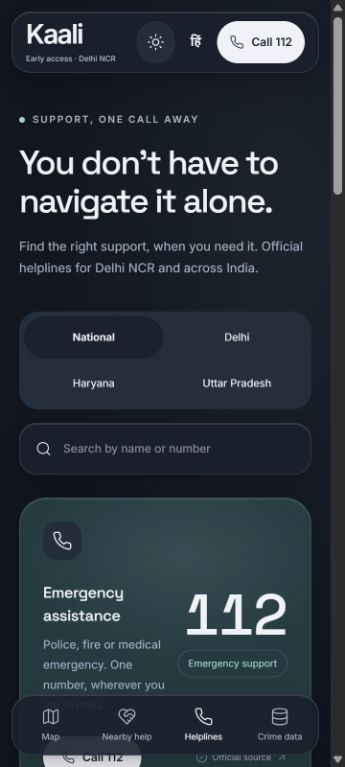
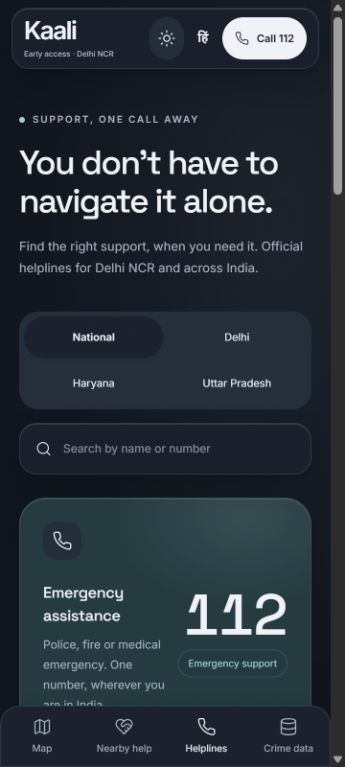
Simplify mobile map controls and panel layout

diff --git a/src/pages/HistoricalMap.tsx b/src/pages/HistoricalMap.tsx
@@ -25,15 +25,16 @@ export default function HistoricalMap({theme,region}:{theme:string;region:Region
  useEffect(()=>{const timer=setInterval(()=>setClock(new Date()),60000);return()=>clearInterval(timer)},[]);
  const hour=selectedHour??localHour(clock,region.timezone),timeBand=Math.floor(hour/4);
  const [openPanel,setOpenPanel]=useState<'districts'|'details'|'legend'|'filters'|null>(null);
- const toggle=(panel:'districts'|'details'|'legend'|'filters')=>setOpenPanel(current=>current===panel?null:panel);
- const selectDistrict=(id:string)=>{setSelectedId(id);setOpenPanel('details')};
+ const [awarenessOpen,setAwarenessOpen]=useState(false);
+ const toggle=(panel:'districts'|'details'|'legend'|'filters')=>{setAwarenessOpen(false);setOpenPanel(current=>current===panel?null:panel)};
+ const selectDistrict=(id:string)=>{setAwarenessOpen(false);setSelectedId(id);setOpenPanel('details')};
  const [data,setData]=useState<NcrDistricts|null>(null),[error,setError]=useState(''),[query,setQuery]=useState(''),[selectedId,setSelectedId]=useState<string|null>(null);
  useEffect(()=>{const controller=new AbortController();fetch('/data/ncr-historical-districts.json',{signal:controller.signal}).then(r=>{if(!r.ok)throw Error('Historical records could not load');return r.json();}).then(raw=>setData(loadNcrDistricts(raw))).catch(e=>{if(!controller.signal.aborted)setError(String(e.message));});return()=>controller.abort();},[]);
  useEffect(()=>{const controller=new AbortController();fetch(region.helpFile,{signal:controller.signal}).then(r=>{if(!r.ok)throw Error();return r.json()}).then(raw=>setHelp(raw.features??[])).catch(()=>setHelp([]));return()=>controller.abort()},[region.helpFile]);
  const selected=data?.records.find(r=>r.id===selectedId);
  const filtered=useMemo(()=>data?.records.filter(r=>`${r.name} ${r.cityId==='gautam-buddh-nagar'?'Noida Greater Noida':''}`.toLowerCase().includes(query.trim().toLowerCase()))??[],[data,query]);
  const highlights=selected?.categories.filter(c=>c.highlight)??[],maximum=Math.max(1,...highlights.map(c=>c.count??0));
- return <main id="main" onKeyDown={e=>{if(e.key==='Escape'&&openPanel){document.getElementById(`${openPanel}-toggle`)?.focus();setOpenPanel(null);e.stopPropagation();}}} className={`historical-layout ${selected?'with-district':''} ${openPanel?`panel-${openPanel}-open`:''}`}>
+ return <main id="main" onKeyDown={e=>{if(e.key==='Escape'&&awarenessOpen){setAwarenessOpen(false);e.stopPropagation();}else if(e.key==='Escape'&&openPanel){document.getElementById(`${openPanel}-toggle`)?.focus();setOpenPanel(null);e.stopPropagation();}}} className={`historical-layout ${selected?'with-district':''} ${openPanel?`panel-${openPanel}-open`:''}`}>
  <div className="historical-basemap" aria-label="Interactive Delhi NCR historical recorded-case map">{data?<Suspense fallback={<Skeleton/>}><Canvas districts={filtered} selectedId={selectedId} theme={theme} onSelect={selectDistrict} openPanel={openPanel} bounds={region.bounds} center={region.center} help={help} layout={layout} timeBand={timeBand} hour={hour} visibleKinds={visibleKinds} context={context} userPosition={user} focusRequest={focusRequest} onLocate={()=>setLocateRequest(n=>n+1)} ml={ml}/></Suspense>:<div className="historical-loading"><Skeleton/><p role="status">{error||'Loading source-backed district records…'}</p>{error&&<Button onClick={()=>window.location.reload()}>Retry</Button>}</div>}</div>
  <Glass className={`historical-sidebar historical-capsule ${openPanel==='districts'?'is-open':''}`} aria-label="Delhi NCR district controls"><button id="districts-toggle" className="historical-capsule-trigger" onClick={()=>toggle('districts')} aria-expanded={openPanel==='districts'} aria-controls="district-controls-body"><SlidersHorizontal size={18}/><span><strong>{formatCases(data?.ncrRecordedSubtotal)} recorded cases</strong><small>Delhi NCR · Historical records · Districts</small></span><ChevronDown size={17}/></button><div id="district-controls-body" className="historical-capsule-body" hidden={openPanel!=='districts'}><p className="eyebrow">DELHI NCR · RECORDED CASES</p><h1>The district<br/>picture.</h1><p className="historical-intro">Crimes against women, as recorded in <strong>the historical reporting period</strong>. Historical volume, with the source in view.</p>
  <label className="historical-search"><Search size={17}/><span className="sr-only">Search reporting units</span><input value={query} onChange={e=>setQuery(e.target.value)} placeholder="Find a police district" type="search"/></label>
@@ -51,7 +52,7 @@ export default function HistoricalMap({theme,region}:{theme:string;region:Region
  <h3>Missing data & source checks</h3><p className="historical-small">{selected.missingColumns.length?`Missing source columns: ${selected.missingColumns.join(', ')}. Blanks remain missing.`:'No blank category cells in this district’s source worksheet row. This does not establish complete crime reporting.'}</p>{selected.categoryMismatches.map(c=><p key={c.column} className="historical-data-note">{historicalCopy(c.label)}: source parent {formatCases(c.reported_parent)}, children {formatCases(c.child_sum)}. Retained as published; no repair or redistribution.</p>)}
  <a href={data.sourceUrl} target="_blank" rel="noreferrer">NCRB source catalogue <ArrowUpRight size={14}/></a><a href={data.reportUrl} target="_blank" rel="noreferrer">Original report · state-total reconciliation <ArrowUpRight size={14}/></a><a href={selected.reference.source} target="_blank" rel="noreferrer">OSM reference place <ArrowUpRight size={14}/></a><a href={selected.reference.assignmentSource} target="_blank" rel="noreferrer">Official district / locality directory <ArrowUpRight size={14}/></a><p className="historical-small">{historicalCopy(data.provenanceNote)}</p>
  <div className="historical-help"><a href="tel:112"><Phone size={16}/> Emergency · call 112</a><Link to="/helplines">Official helplines & government links <ArrowUpRight size={14}/></Link><Link to="/evidence">Crime data & sources <ArrowUpRight size={14}/></Link><Button variant="ghost" size="small" onClick={()=>{setSelectedId(null);setOpenPanel(null);document.getElementById('districts-toggle')?.focus();}}>Clear district selection</Button></div></div></Glass>}
- <LocalAwareness locateRequest={locateRequest} center={region.center} timezone={region.timezone} ml={ml} context={context} help={help} user={user} onPosition={onPosition} onLocate={()=>setFocusRequest(n=>n+1)} regional={data?{year:data.year,count:data.ncrRecordedSubtotal}:null}/>
+ <LocalAwareness mobileExpanded={awarenessOpen} onMobileExpandedChange={open=>{setAwarenessOpen(open);if(open)setOpenPanel(null)}} locateRequest={locateRequest} center={region.center} timezone={region.timezone} ml={ml} context={context} help={help} user={user} onPosition={onPosition} onLocate={()=>setFocusRequest(n=>n+1)} regional={data?{year:data.year,count:data.ncrRecordedSubtotal}:null}/>
  <Glass className={`historical-legend historical-capsule ${openPanel==='legend'?'is-open':''}`} aria-label="Historical recorded volume legend"><button id="legend-toggle" className="historical-capsule-trigger" onClick={()=>toggle('legend')} aria-expanded={openPanel==='legend'} aria-controls="historical-legend-body"><Layers size={18}/><span><strong>Map legend</strong><small>Recorded cases · Historical records</small></span><ChevronDown size={17}/></button><div id="historical-legend-body" className="historical-capsule-body" hidden={openPanel!=='legend'}><h2>Recorded cases · Historical records</h2><div><span><i className="historical-dot band-pale"/>Under 500</span><span><i className="historical-dot band-medium"/>500–999</span><span><i className="historical-dot band-strong"/>1,000+</span></div><p>Larger circle = more recorded cases. Size: 22 + √(cases ÷ 1,500) × 30 px.</p><p>Polygon risk levels: Low (under 25), Medium (25–49), High (50–74), Very high (75–100). Pale rose to crimson; Model estimates or time-only advisory rules, not a guarantee. Levels combine annual-volume predictions with assumed spatial/time/activity adjustments. For missing model inputs: 20:00–06:00 High, 06:00–10:00 Medium, 10:00–17:00 Low, 17:00–20:00 Medium. At 22:00–06:00, model Low becomes Medium and Medium becomes High; outer/lower-density references have a High minimum. Outer means over 20 km from the configured region centre; lower density means below the median of available supplied density values. These are assumed rules. Reference cells are not verified ward boundaries or current danger classifications.</p><small>Historical reporting, not current safety. Display bands only · not NCRB danger classifications. Approximate reference points; no danger radii.</small><Link className="historical-legend-method" to="/evidence">Crime data & sources <ArrowUpRight size={13}/></Link></div></Glass>
  <Glass className={`historical-filters historical-capsule ${openPanel==='filters'?'is-open':''}`} aria-label="Map filters"><button id="filters-toggle" className="historical-capsule-trigger" onClick={()=>toggle('filters')} aria-expanded={openPanel==='filters'} aria-controls="map-filters-body"><SlidersHorizontal size={18}/><span><strong>Help nearby</strong><small>{visibleKinds.length?'Help nearby & layout':'Help layers hidden'}</small></span><ChevronDown size={17}/></button><div id="map-filters-body" className="historical-capsule-body" hidden={openPanel!=='filters'}><label className="historical-filter-field">Map layout<select value={layout} onChange={e=>setLayout(e.target.value as BasemapLayout)}>{mapLayouts.map(l=><option key={l.id} value={l.id}>{l.label}</option>)}</select></label><fieldset><legend>Help nearby · mapped OSM places</legend>{(['police','hospital','metro'] as const).map(kind=><label className="historical-filter-check" key={kind}><input type="checkbox" checked={visibleKinds.includes(kind)} onChange={e=>setVisibleKinds(list=>e.target.checked?[...list,kind]:list.filter(k=>k!==kind))}/><span>{{police:'Police stations',hospital:'Hospitals',metro:'Metro stations',bus:'Bus stops',fire:'Fire stations'}[kind]}</span><small>{help.filter(f=>f.properties.kind===kind).length}</small></label>)}</fieldset><p className="historical-small">Mapped facilities only; coverage and opening hours are not verified. If a category has no mapped records, it does not mean no facilities exist. Tap a marker for its source.</p><label className="historical-filter-field">Local time<select value={selectedHour??'now'} onChange={e=>setSelectedHour(e.target.value==='now'?null:Number(e.target.value))}><option value="now">Current time</option>{Array.from({length:24},(_,h)=><option key={h} value={h}>{String(h).padStart(2,'0')}:00</option>)}</select></label><p className="historical-small">Risk levels combine model estimates and time-based advisory rules, not a guarantee. Missing model inputs use a time-only advisory. Recorded totals remain unchanged.</p></div></Glass>
  </main>;

diff --git a/src/components/HistoricalMapCanvas.tsx b/src/components/HistoricalMapCanvas.tsx
@@ -16,6 +16,8 @@ import 'maplibre-gl/dist/maplibre-gl.css';
 
 export default function HistoricalMapCanvas({districts,selectedId,theme,onSelect,bounds,center,openPanel,help,layout,timeBand,hour,visibleKinds,context,userPosition,focusRequest,ml,onLocate}:{onLocate:()=>void;districts:HistoricalDistrict[];selectedId:string|null;theme:string;onSelect:(id:string)=>void;bounds:Bounds;center:{lat:number;lng:number};openPanel:'districts'|'details'|'legend'|'filters'|null;help:HelpFeature[];layout:BasemapLayout;timeBand:number;hour:number;visibleKinds:HelpFeature['properties']['kind'][];context:LocalityContext|null;userPosition:UserPosition|null;focusRequest:number;ml:MLVolume|null}){
  const ref=useRef<MapRef>(null),reduce=useReducedMotion();const [ready,setReady]=useState(false),[error,setError]=useState('');
+ const [compact,setCompact]=useState(()=>window.matchMedia('(max-width:760px)').matches);
+ useEffect(()=>{const media=window.matchMedia('(max-width:760px)');const update=()=>setCompact(media.matches);media.addEventListener('change',update);return()=>media.removeEventListener('change',update)},[]);
  const key=import.meta.env.VITE_MAPTILER_KEY??'';const style=useMemo(()=>detailedBasemap(theme,key,layout),[theme,key,layout]);
  useEffect(()=>setError(''),[style]);
  const [popup,setPopup]=useState<HelpFeature|null>(null);
@@ -29,7 +31,7 @@ export default function HistoricalMapCanvas({districts,selectedId,theme,onSelect
 
  const helpPoints=useMemo(()=>({type:'FeatureCollection' as const,features:help.filter(f=>f.geometry.type==='Point'&&visibleKinds.includes(f.properties.kind))}),[help,visibleKinds]);
  const onHelpClick=async(e:MapLayerMouseEvent)=>{const f=e.features?.[0];if(!f)return;if(f.layer.id==='locality-context-fill'){setLocalPopup(context?.records.find(r=>r.id===f.properties?.id)??null);return;}if(f.layer.id==='ncr-help-clusters'){const src=ref.current?.getMap().getSource('ncr-help') as GeoJSONSource|undefined;if(!src)return;try{const zoom=await src.getClusterExpansionZoom(Number(f.properties?.cluster_id));ref.current?.easeTo({center:(f.geometry as GeoJSON.Point).coordinates as [number,number],zoom,duration:reduce?0:400})}catch{/* source can disappear during style change */}return;}const record=help.find(h=>h.properties.id===String(f.properties?.id));if(record)setPopup(record);};
- const padding=()=>window.innerWidth>760?{top:200,bottom:150,left:openPanel==='districts'?335:48,right:openPanel==='details'||openPanel==='filters'?365:48}:{top:180,bottom:openPanel==='details'||openPanel==='legend'?Math.min(window.innerHeight*.4+172,window.innerHeight-200):200,left:24,right:24};
+ const padding=()=>window.innerWidth>760?{top:200,bottom:150,left:openPanel==='districts'?335:48,right:openPanel==='details'||openPanel==='filters'?365:48}:{top:100,bottom:openPanel?Math.min(window.innerHeight*.52+132,window.innerHeight-160):152,left:20,right:20};
  const recenter=()=>{ref.current?.fitBounds([[bounds.west,bounds.south],[bounds.east,bounds.north]],{padding:padding(),duration:reduce?0:700});};
  useEffect(()=>{const map=ref.current?.getMap();if(!map||!ready)return;const resize=()=>{map.resize();map.jumpTo({padding:padding()});};resize();const observer=new ResizeObserver(resize);observer.observe(map.getContainer());return()=>observer.disconnect();},[ready,openPanel]);
  useEffect(()=>{if(!ready)return;const record=districts.find(r=>r.id===selectedId);if(record)ref.current?.flyTo({center:record.reference.coordinates,zoom:11.8,padding:padding(),duration:reduce?0:650});},[selectedId,ready,reduce]);
@@ -40,7 +42,7 @@ export default function HistoricalMapCanvas({districts,selectedId,theme,onSelect
  {localPopup&&<Popup longitude={localPopup.coordinates[0]} latitude={localPopup.coordinates[1]} onClose={()=>setLocalPopup(null)}><div className="map-popup"><strong>{cells.features.find(f=>f.properties.id===localPopup.id)?.properties.name??localPopup.name}</strong><p>Risk level: <strong>{modelRiskLevel(cells.features.find(f=>f.properties.id===localPopup.id)?.properties.score??null)}</strong></p></div></Popup>}
  {districts.map(d=>{const diameter=districtDiameter(d.count);const band=districtBand(d.count);return <Marker key={d.id} longitude={d.reference.coordinates[0]} latitude={d.reference.coordinates[1]} anchor="center" style={{zIndex:selectedId===d.id?2:1}}><button className={`historical-marker ${selectedId===d.id?'is-selected':''}`} aria-label={`${d.name} police district, ${d.count===null?'total missing':`${d.count} recorded cases`}, historical reporting period; approximate reference`} aria-pressed={selectedId===d.id} onClick={e=>{e.stopPropagation();onSelect(d.id);}} title={`${d.name} · ${d.count??'Not published'} cases · historical reporting period`}>
  <span className={`historical-circle band-${band}`} style={{width:diameter??24,height:diameter??24}}>{d.count===null?'?':d.count.toLocaleString('en-IN')}</span><span className="historical-marker-label">{d.name}</span></button></Marker>})}
- <Source id="ncr-help" type="geojson" data={helpPoints} cluster clusterMaxZoom={13} clusterRadius={40}><Layer id="ncr-help-clusters" type="symbol" filter={['has','point_count']} layout={{'icon-image':'kaali-icon-cluster','icon-size':1.7,'icon-allow-overlap':true,'text-field':['get','point_count_abbreviated'],'text-offset':[0,2.1],'text-size':11}} paint={{'text-color':theme==='dark'?'#ffffff':'#17313b','text-halo-color':theme==='dark'?'#17313b':'#ffffff','text-halo-width':1.5}}/><Layer id="ncr-help-points" type="symbol" filter={['!', ['has','point_count']]} layout={{'icon-image':['concat','kaali-icon-',['get','kind']],'icon-allow-overlap':false,'icon-size':1.2}}/><Layer id="ncr-help-names" type="symbol" minzoom={14} filter={['!', ['has','point_count']]} layout={{'text-field':['get','name'],'text-size':11,'text-offset':[0,1.7],'text-anchor':'top','text-max-width':12}} paint={{'text-color':theme==='dark'?'#f5f7fa':'#1c2634','text-halo-color':theme==='dark'?'#17202d':'#ffffff','text-halo-width':1.5}}/></Source>
+ <Source id="ncr-help" type="geojson" data={helpPoints} cluster clusterMaxZoom={13} clusterRadius={compact?64:40}><Layer id="ncr-help-clusters" type="symbol" filter={['has','point_count']} layout={{'icon-image':'kaali-icon-cluster','icon-size':compact?1.15:1.7,'icon-allow-overlap':!compact,'text-field':['get','point_count_abbreviated'],'text-offset':[0,compact?1.6:2.1],'text-size':11}} paint={{'text-color':theme==='dark'?'#ffffff':'#17313b','text-halo-color':theme==='dark'?'#17313b':'#ffffff','text-halo-width':1.5}}/><Layer id="ncr-help-points" type="symbol" filter={['!', ['has','point_count']]} layout={{'icon-image':['concat','kaali-icon-',['get','kind']],'icon-allow-overlap':false,'icon-size':compact?1:1.2}}/><Layer id="ncr-help-names" type="symbol" minzoom={14} filter={['!', ['has','point_count']]} layout={{'text-field':['get','name'],'text-size':11,'text-offset':[0,1.7],'text-anchor':'top','text-max-width':12}} paint={{'text-color':theme==='dark'?'#f5f7fa':'#1c2634','text-halo-color':theme==='dark'?'#17202d':'#ffffff','text-halo-width':1.5}}/></Source>
  {popup&&popup.geometry.type==='Point'&&<Popup longitude={popup.geometry.coordinates[0]} latitude={popup.geometry.coordinates[1]} onClose={()=>setPopup(null)} closeOnClick={false}><div className="map-popup"><strong>{popup.properties.name}</strong><p>Mapped {popup.properties.kind} · availability not confirmed.</p><a href={popup.properties.source} target="_blank" rel="noreferrer">OpenStreetMap source ↗</a></div></Popup>}
  <AttributionControl position="bottom-right" compact={true}/>
  </Map>{key&&<a className="historical-maptiler-logo" href="https://www.maptiler.com/" target="_blank" rel="noreferrer"><img src="https://api.maptiler.com/resources/logo.svg" alt="MapTiler" width="85" height="25"/></a>}<Glass className="historical-map-controls"><Button size="icon" variant="ghost" aria-label="Zoom in" onClick={()=>ref.current?.zoomIn({duration:reduce?0:250})}><Plus size={18}/></Button><Button size="icon" variant="ghost" aria-label="Zoom out" onClick={()=>ref.current?.zoomOut({duration:reduce?0:250})}><Minus size={18}/></Button><Button size="icon" variant="ghost" aria-label="Locate me" onClick={onLocate}><LocateFixed size={18}/></Button></Glass>{(!key||error)&&<p className="historical-tile-note glass" role="status">{!key?'Configure MapTiler to show the street basemap. Circles use geographic reference coordinates.':error}</p>}</>;

diff --git a/src/components/LocalAwareness.tsx b/src/components/LocalAwareness.tsx
@@ -8,8 +8,11 @@ import {currentPeriod,nearestReference,type LocalityContext} from '../lib/locali
 import type {UserPosition,HelpFeature} from '../types';
 import {advisoryLevel,referenceAdvisory,localHour,precaution} from '../lib/advisory-risk';
 import {type MLVolume} from '../lib/ml-volume';
-export default function LocalAwareness({context,help,user,onPosition,onLocate,ml,center,timezone,locateRequest}:{locateRequest:number;center:{lat:number;lng:number};timezone:string;context:LocalityContext|null;help:HelpFeature[];user:UserPosition|null;onPosition:(u:UserPosition|null)=>void;onLocate:()=>void;regional:{year:number;count:number|null}|null;ml:MLVolume|null}){
- const [expanded,setExpanded]=useState(true);
+export default function LocalAwareness({mobileExpanded=false,onMobileExpandedChange,context,help,user,onPosition,onLocate,ml,center,timezone,locateRequest}:{mobileExpanded?:boolean;onMobileExpandedChange?:(open:boolean)=>void;locateRequest:number;center:{lat:number;lng:number};timezone:string;context:LocalityContext|null;help:HelpFeature[];user:UserPosition|null;onPosition:(u:UserPosition|null)=>void;onLocate:()=>void;regional:{year:number;count:number|null}|null;ml:MLVolume|null}){
+ const [expanded,setExpanded]=useState(true),[mobile,setMobile]=useState(()=>window.matchMedia('(max-width:760px)').matches);
+ useEffect(()=>{const media=window.matchMedia('(max-width:760px)');const update=()=>setMobile(media.matches);media.addEventListener('change',update);return()=>media.removeEventListener('change',update)},[]);
+ const isExpanded=mobile?mobileExpanded:expanded;
+ const toggleExpanded=()=>{if(mobile)onMobileExpandedChange?.(!mobileExpanded);else setExpanded(open=>!open)};
  const [consent,setConsent]=useState(false),[enabled,setEnabled]=useState(false),[error,setError]=useState(''),[now,setNow]=useState(new Date());
 
  const session=useRef<ReturnType<typeof locationSession>|null>(null);
@@ -24,5 +27,5 @@ export default function LocalAwareness({context,help,user,onPosition,onLocate,ml
  useEffect(()=>{if(locateRequest===lastLocateRequest.current)return;lastLocateRequest.current=locateRequest;if(enabled)onLocate();else setConsent(true)},[locateRequest,enabled,onLocate]);
  const share=async()=>{if(!user)return;try{if(!navigator.share){setError('Use your device’s location-sharing app; native sharing is unavailable here.');return;}await navigator.share({title:'My current location',text:`My device location (approximately ±${Math.round(user.accuracy)} m): https://www.openstreetmap.org/?mlat=${user.lat}&mlon=${user.lng}#map=17/${user.lat}/${user.lng}`});}catch{setError('Location sharing was cancelled or unavailable.')}};
  return <><Sheet open={consent} onOpenChange={setConsent} title="Your location, on this device"><p>Show your device’s reported position and an awareness summary. Coordinates stay in memory here and are cleared when you stop. We do not send GPS to a geocoder or AI service. Map tiles reveal the viewed area to the map provider.</p><p>The blue dot is your device’s estimate; its accuracy circle is not a guarantee of an exact position.</p><Button onClick={()=>{setConsent(false);setError('');if(!session.current){setError('Location is unavailable in this browser.');return;}setEnabled(true);session.current.start();}}>Allow location</Button><Button variant="ghost" onClick={()=>setConsent(false)}>Continue without location</Button></Sheet>
- {enabled&&<Glass className={`historical-location-card ${expanded?'is-expanded':'is-collapsed'}`} aria-label="On-device location awareness"><button className="historical-capsule-trigger location-card-heading" aria-expanded={expanded} aria-controls="location-advice-body" onClick={()=>setExpanded(open=>!open)}><span><strong>{user?'Your surroundings':'Finding your location…'}</strong>{user&&<small>{level} · advisory level</small>}</span><ChevronDown size={18}/></button><div id="location-advice-body" hidden={!expanded}>{user&&<><div className={`location-risk-badge risk-${level.toLowerCase().replace(' ','-')}`}>{level} · advisory level</div>{r&&<p className="location-reference-name">Near {r.name}</p>}<p className="location-advice-copy">{precaution(level)}</p><p className="historical-small">Model estimate with time-based advisory rules; not a guarantee of safety.</p><small>{new Intl.DateTimeFormat('en-IN',{timeZone:timezone,hour:'numeric',minute:'2-digit'}).format(now)} IST · GPS accuracy ±{Math.round(user.accuracy)} m</small>{police&&<p className="historical-small">Nearest mapped police reference: {police.name} · {police.km.toFixed(1)} km straight-line; availability unconfirmed.</p>}<div className="location-card-actions"><a href="tel:112">Call 112</a><Button size="small" variant="ghost" onClick={share}><Share2 size={16}/>Share location</Button><Link to="/helplines">Helplines</Link></div></>}<Button size="small" variant="ghost" onClick={()=>{session.current?.stop();setEnabled(false);setExpanded(true);}}><X size={16}/>Stop location</Button></div></Glass>}{error&&<Glass className="historical-location-error" role="status">{error}<Button variant="ghost" size="small" onClick={()=>setError('')}>Dismiss</Button></Glass>}</>;
+ {enabled&&<Glass className={`historical-location-card ${isExpanded?'is-expanded':'is-collapsed'}`} aria-label="On-device location awareness"><button className="historical-capsule-trigger location-card-heading" aria-expanded={isExpanded} aria-controls="location-advice-body" onClick={toggleExpanded}><span><strong>{user?'Your surroundings':'Finding your location…'}</strong>{user&&<small>{level} · advisory level</small>}</span><ChevronDown size={18}/></button><div id="location-advice-body" hidden={!isExpanded}>{user&&<><div className={`location-risk-badge risk-${level.toLowerCase().replace(' ','-')}`}>{level} · advisory level</div>{r&&<p className="location-reference-name">Near {r.name}</p>}<p className="location-advice-copy">{precaution(level)}</p><p className="historical-small">Model estimate with time-based advisory rules; not a guarantee of safety.</p><small>{new Intl.DateTimeFormat('en-IN',{timeZone:timezone,hour:'numeric',minute:'2-digit'}).format(now)} IST · GPS accuracy ±{Math.round(user.accuracy)} m</small>{police&&<p className="historical-small">Nearest mapped police reference: {police.name} · {police.km.toFixed(1)} km straight-line; availability unconfirmed.</p>}<div className="location-card-actions"><a href="tel:112">Call 112</a><Button size="small" variant="ghost" onClick={share}><Share2 size={16}/>Share location</Button><Link to="/helplines">Helplines</Link></div></>}<Button size="small" variant="ghost" onClick={()=>{session.current?.stop();setEnabled(false);setExpanded(true);onMobileExpandedChange?.(false);}}><X size={16}/>Stop location</Button></div></Glass>}{error&&<Glass className="historical-location-error" role="status">{error}<Button variant="ghost" size="small" onClick={()=>setError('')}>Dismiss</Button></Glass>}</>;
 }

diff --git a/src/historical-map.css b/src/historical-map.css
@@ -105,3 +105,38 @@
  .historical-layout .maplibregl-ctrl-bottom-right{bottom:144px!important;}
  .historical-details,.historical-legend.is-open{bottom:172px;}
 }
+
+/* Mobile map: one compact summary, a thumb toolbar and one open sheet. */
+@media(max-width:760px){
+ .historical-layout{min-height:0;height:100dvh;}
+ .historical-sidebar{top:88px;left:12px;right:12px;max-height:none;}
+ .historical-sidebar:not(.is-open) .historical-capsule-trigger{min-height:52px;padding:8px 16px;gap:10px;}
+ .historical-sidebar:not(.is-open) .historical-capsule-trigger strong{font-size:13px;}
+ .historical-sidebar:not(.is-open) .historical-capsule-trigger small{font-size:10px;}
+ .historical-filters,.historical-legend{top:auto;bottom:calc(88px + env(safe-area-inset-bottom));width:calc(50% - 18px);max-height:none;}
+ .historical-legend{left:12px;right:auto;}
+ .historical-filters{left:auto;right:12px;}
+ .historical-legend:not(.is-open) .historical-capsule-trigger,.historical-filters:not(.is-open) .historical-capsule-trigger{min-height:48px;padding:10px 14px;gap:8px;}
+ .historical-legend:not(.is-open) .historical-capsule-trigger small,.historical-filters:not(.is-open) .historical-capsule-trigger small{display:none;}
+ .historical-map-controls{right:12px;bottom:calc(166px + env(safe-area-inset-bottom));flex-direction:column;border-radius:18px;padding:3px;box-shadow:var(--shadow);}
+ .historical-map-controls .ui-button{height:44px;}
+ .historical-map-controls .ui-button+.ui-button{border-top:1px solid var(--line);border-radius:0;}
+ .historical-sidebar.is-open,.historical-details.is-open,.historical-legend.is-open,.historical-filters.is-open,.historical-location-card.is-expanded{position:absolute;top:auto;left:8px;right:8px;bottom:calc(144px + env(safe-area-inset-bottom));width:auto;max-width:none;max-height:calc(100dvh - 240px - env(safe-area-inset-bottom));border-radius:24px;padding:0;overflow:auto;background:var(--surface);backdrop-filter:none;-webkit-backdrop-filter:none;box-shadow:var(--shadow-high);z-index:20;animation:awareness-enter .2s ease-out;}
+ .historical-capsule.is-open .historical-capsule-trigger{min-height:56px;padding:14px 18px;}
+ .historical-capsule.is-open .historical-capsule-trigger small{display:block;}
+ .historical-capsule-body{padding:18px;}
+ .historical-details:not(.is-open){display:none;}
+ .historical-location-card.is-collapsed{top:150px;left:12px;right:auto;width:auto;max-width:calc(100% - 84px);padding:0 14px;border-radius:18px;}
+ .historical-location-card.is-collapsed .location-card-heading{min-height:48px;padding:8px 0;font-size:12px;gap:16px;}
+ .historical-location-card.is-expanded .location-card-heading{position:sticky;top:0;min-height:56px;padding:14px 18px;background:var(--surface);border-bottom:1px solid var(--line);border-radius:0;font-size:14px;}
+ .historical-location-card.is-expanded #location-advice-body{padding:0 18px 18px;}
+ .historical-location-card .location-advice-copy{font-size:14px;line-height:1.7;}
+ .panel-districts-open .historical-filters{display:block;}
+ .historical-maptiler-logo{bottom:calc(68px + env(safe-area-inset-bottom));left:12px;padding:0;background:transparent;}
+ .historical-maptiler-logo img{width:66px;height:auto;}
+ .historical-layout .maplibregl-ctrl-bottom-right{bottom:calc(140px + env(safe-area-inset-bottom))!important;}
+ .historical-tile-note{top:148px;font-size:11px;max-width:calc(100% - 84px);}
+ .historical-location-error{bottom:calc(146px + env(safe-area-inset-bottom));left:12px;right:12px;max-width:none;}
+ .historical-layout .maplibregl-popup{max-width:240px!important;}
+}
+@media(prefers-reduced-motion:reduce){.historical-capsule.is-open{animation:none;}}

diff --git a/src/styles.css b/src/styles.css
@@ -13,6 +13,17 @@
 .brand-logo{display:block;width:132px;height:39px;object-fit:contain;object-position:left center}.brand-wordmark{display:grid;line-height:1.05}.release-label{font-size:9px;font-weight:500;letter-spacing:0;line-height:1.4;color:var(--muted);margin-top:5px;white-space:nowrap}.brand-tagline{font-size:10px;line-height:1.5;color:var(--muted);max-width:180px}.about-name{margin-top:32px}.about-name h2{font-size:17px;font-weight:550}.about-name p{font-size:12px;color:var(--muted)}@media(max-width:1280px){.brand-tagline{display:none}}@media(max-width:760px){.brand-logo{width:112px;height:34px}.release-label{font-size:8px}}
 @media(max-width:760px){.helpline-controls .tabs-list{display:grid;grid-template-columns:repeat(2,minmax(0,1fr));overflow:visible;border-radius:20px;}.helpline-controls .tabs-trigger{min-width:0;min-height:44px;padding:8px;white-space:normal;}.helpline-card.featured{flex-wrap:wrap;}.helpline-card.featured .number-column{padding-left:0;}.coverage-table{table-layout:fixed;overflow-wrap:anywhere;}.page-footnote,.ncr-evidence-record{overflow-wrap:anywhere;}}
 .header{position:fixed;}
+@media(max-width:760px){
+ .header{top:8px;left:12px;right:12px;height:64px;border-radius:18px;gap:8px;padding:0 12px;}
+ .brand{font-size:26px;}
+ .release-label{font-size:8px!important;white-space:nowrap;}
+ .header-actions .button-icon{width:36px;min-width:36px;padding:8px;}
+ .header-actions .emergency{font-size:11px;white-space:nowrap;}
+ .header-actions .ui-button:has(.emergency){padding:10px 12px;min-height:44px;}
+ .bottom-nav{left:0;right:0;bottom:0;height:calc(64px + env(safe-area-inset-bottom));padding-bottom:env(safe-area-inset-bottom);border-radius:20px 20px 0 0;background:var(--surface);box-shadow:0 -4px 20px #0000000d;}
+ .bottom-nav a{flex:1;min-width:0;min-height:48px;font-size:10px;gap:5px;}
+ .bottom-nav a.active:after{display:none;}
+}
 
 /* The details sheet has a fixed handle and an independently scrolling body. */
 .detail{display:flex;flex-direction:column;overflow:hidden;padding:0}

diff --git a/BUILD_STATUS.md b/BUILD_STATUS.md
@@ -357,3 +357,10 @@ Fresh project-runtime checks now pass for tables, geometry, projection, news ext
 - Added early-access badge, current release/setup documentation and 12 live-site screenshots in GitHub README. Removed em dashes from frontend copy and root project Markdown; source data, statistical years/counts, licences and attributed material remain preserved.
 - Release checks pass: 100 frontend tests, 64 pipeline tests, lint, type-check, static-data validation and production build. Initial capture artifacts/stall resolved for live screenshots; physical-phone FPS and GPS movement were not independently tested.
 - Scope completed for early access. Scientific gaps remain documented; automated build continuation should stop. Manual owner follow-up: restrict MapTiler key to the deployed referrer, monitor provider quotas and review unresolved original input reuse receipts before wider promotion.
+
+## Mobile layout refinement: 2026-10-02
+
+- Compact mobile header, fixed bottom navigation, paired legend/help capsules and a separate vertical zoom/location toolbar leave more room for the map. Expanded district, legend, filter and surroundings panels use one readable bottom-sheet layout; surroundings starts collapsed on phones. Data, model and advisory rules remain unchanged.
+- Mobile emergency markers are smaller and use wider clustering with collision handling. Map camera padding adapts to sheets and short screens. Reduced-motion settings and safe-area insets remain supported.
+- Verified production preview at 360x800, 360x640, 390x844 and desktop 1280x720. Checked light/dark themes, search, district selection, filters, metro toggle, Escape collapse and Helplines/Crime data navigation. No horizontal overflow or browser console errors observed. Refreshed six mobile README screenshots. Live GPS and physical-phone frame rates were not tested.
+- Lint, type-check, all 100 frontend tests and production build pass. Existing lazy MapLibre chunk-size warning remains. Publication and live verification follow the existing authorized Render workflow.

diff --git a/VISUAL_QA.md b/VISUAL_QA.md
@@ -15,3 +15,7 @@ Local screenshots are in `artifacts/visual-qa/` (excluded from Git). The browser
 The successful Render deployment was subsequently checked at https://kaali-ui4n.onrender.com. Direct `/helplines` and `/evidence` navigation works with the configured SPA rewrite. Map tiles, red circles, advisory cells and help layers load in both themes. Final screenshots in `docs/screenshots/` use the live website at desktop 1280×720 and mobile 360×800; no horizontal overflow or browser-console errors were observed. These clean captures supersede the earlier viewport capture artifacts and are embedded in the GitHub README.
 
 Not covered: real-phone 60fps measurements, live GPS grant/movement, screen-reader audit, every MapTiler catalogue style or long-running provider outages.
+
+## Mobile refinement
+
+Production preview checked at 360x800, short 360x640, 390x844 and desktop 1280x720. Mobile controls have distinct positions with one expanded sheet at a time. Sheets use an opaque theme surface to avoid labels showing through reading content. District search/Rohini selection, help filters/metro toggle, Escape collapse, both themes and mobile page navigation passed. DOM checks showed no horizontal overflow; the browser console returned no errors. Six mobile screenshots now show this production preview. Live GPS permission and physical-device performance were not tested.
